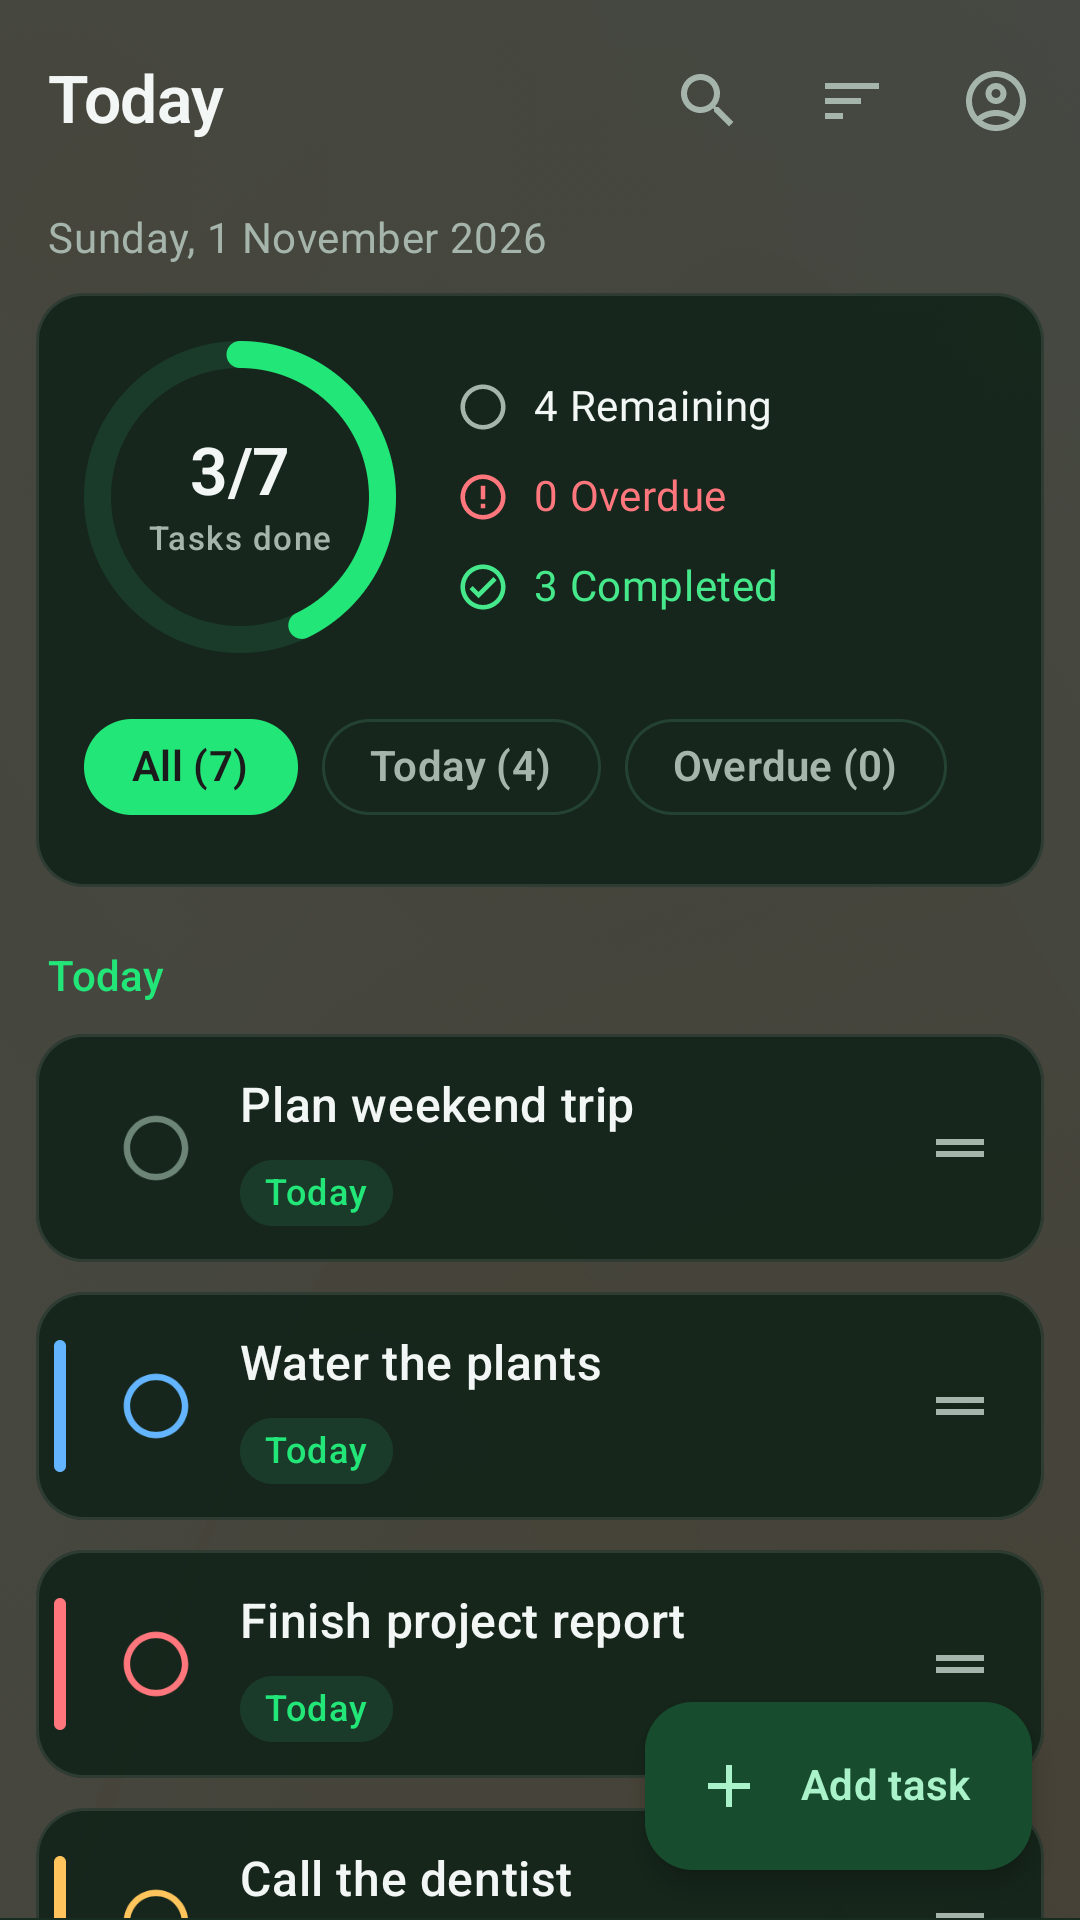
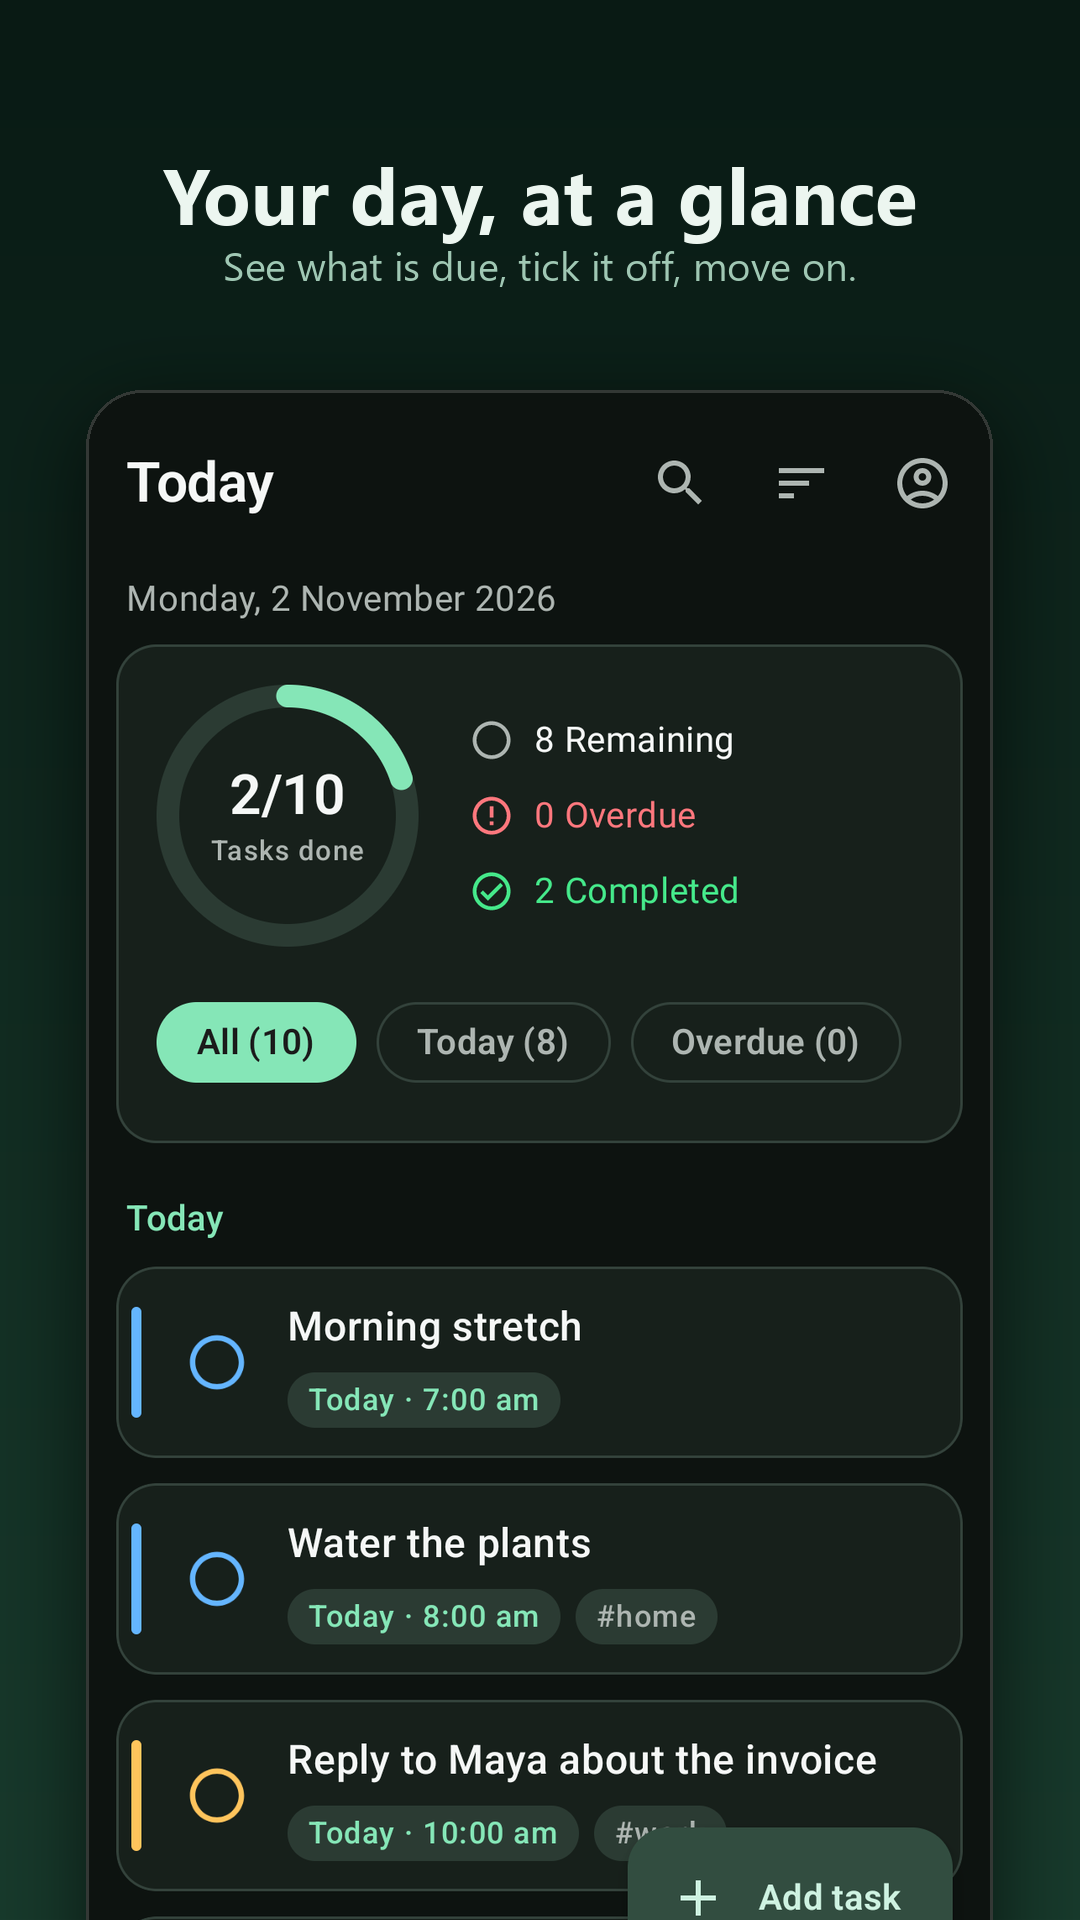
Store listing: captioned screenshot cards (Sage, plain background), listing text, tablet note

diff --git a/docs/release/assets/compose.py b/docs/release/assets/compose.py
@@ -1,0 +1,104 @@
+"""Compose Play Store screenshot cards from raw phone captures.
+
+usage: compose.py <out_dir> [W H]   (default 1080x1920 phone cards)
+Each card: gradient background in the Sage palette, headline + subline,
+the phone screen (status/nav bars cropped) with rounded corners and a
+shadow, bleeding off the bottom edge.
+"""
+import sys, os
+from PIL import Image, ImageDraw, ImageFilter, ImageFont
+
+W_IN = os.path.join(os.path.dirname(os.path.abspath(__file__)), "raw")
+OUT = sys.argv[1]
+CW, CH = (int(sys.argv[2]), int(sys.argv[3])) if len(sys.argv) > 3 else (1080, 1920)
+os.makedirs(OUT, exist_ok=True)
+
+FONT_B = "C:/Windows/Fonts/segoeuib.ttf"
+FONT_R = "C:/Windows/Fonts/segoeui.ttf"
+
+# name, dark?, headline, subline
+CARDS = [
+    ("01", "today_dark", True, "Your day, at a glance", "See what is due, tick it off, move on."),
+    ("02", "matrix_dark", True, "Know what matters first", "Urgent and important, sorted into four boxes."),
+    ("03", "focus_dark", True, "Focus on one task", "Timed rounds with breaks, started from the task."),
+    ("04", "reminder_light", False, "Reminders that really ring", "Alarm sound, vibration and a notification, on the minute."),
+    ("05", "today_light", False, "Light or dark, your pick", "One accent colour shapes the whole app."),
+    ("06", "editor_light", False, "Everything on one screen", "Date, time, reminder, repeat, list and tags."),
+    ("07", "upcoming_light", False, "Plan the week ahead", "Tomorrow and beyond, day by day."),
+    ("08", "appearance_dark", True, "Make it yours", "Ten calm accents and plain or scenic backgrounds."),
+]
+
+DARK_TOP, DARK_BOT = (9, 26, 20), (24, 58, 44)
+LIGHT_TOP, LIGHT_BOT = (226, 242, 233), (250, 253, 251)
+
+
+def gradient(w, h, top, bot):
+    g = Image.new("RGB", (1, h))
+    for y in range(h):
+        t = y / (h - 1)
+        g.putpixel((0, y), tuple(int(top[i] + (bot[i] - top[i]) * t) for i in range(3)))
+    return g.resize((w, h))
+
+
+def rounded(im, r):
+    mask = Image.new("L", im.size, 0)
+    ImageDraw.Draw(mask).rounded_rectangle((0, 0, im.width - 1, im.height - 1), r, fill=255)
+    out = im.convert("RGBA")
+    out.putalpha(mask)
+    return out
+
+
+def fit_text(draw, text, font_path, size, max_w):
+    while size > 20:
+        f = ImageFont.truetype(font_path, size)
+        if draw.textlength(text, font=f) <= max_w:
+            return f
+        size -= 2
+    return ImageFont.truetype(font_path, size)
+
+
+def card(num, name, dark, head, sub):
+    src = Image.open(f"{W_IN}/{name}.png").convert("RGB")
+    # crop the status bar (top 100 px) and the system nav bar (below 2270)
+    scr = src.crop((0, 100, src.width, 2270))
+    scale = CW / 1080
+    bg = gradient(CW, CH, *(DARK_TOP, DARK_BOT) if dark else (LIGHT_TOP, LIGHT_BOT))
+    d = ImageDraw.Draw(bg)
+    fg = (236, 246, 240) if dark else (18, 36, 28)
+    fg2 = (160, 200, 180) if dark else (70, 100, 86)
+    hf = fit_text(d, head, FONT_B, int(78 * scale), CW - int(120 * scale))
+    sf = fit_text(d, sub, FONT_R, int(40 * scale), CW - int(120 * scale))
+    y = int(140 * scale)
+    hw = d.textlength(head, font=hf)
+    d.text(((CW - hw) / 2, y), head, font=hf, fill=fg)
+    y += int(hf.size * 1.25)
+    sw = d.textlength(sub, font=sf)
+    d.text(((CW - sw) / 2, y), sub, font=sf, fill=fg2)
+    # phone screen
+    pw = int(CW * 0.84)
+    ph = int(scr.height * pw / scr.width)
+    scr = scr.resize((pw, ph), Image.LANCZOS)
+    r = int(56 * scale)
+    screen = rounded(scr, r)
+    px, py = (CW - pw) // 2, int(390 * scale)
+    # shadow
+    sh = Image.new("RGBA", (pw + 160, ph + 160), (0, 0, 0, 0))
+    ImageDraw.Draw(sh).rounded_rectangle((80, 80, 80 + pw, 80 + ph), r, fill=(0, 0, 0, 150 if dark else 70))
+    sh = sh.filter(ImageFilter.GaussianBlur(40))
+    bg = bg.convert("RGBA")
+    bg.alpha_composite(sh, (px - 80, py - 60))
+    # thin border so the screen edge reads on both backgrounds
+    border = Image.new("RGBA", screen.size, (0, 0, 0, 0))
+    ImageDraw.Draw(border).rounded_rectangle((0, 0, pw - 1, ph - 1), r, outline=(255, 255, 255, 40) if dark else (0, 0, 0, 30), width=3)
+    screen.alpha_composite(border)
+    bg.alpha_composite(screen, (px, py))
+    out = bg.convert("RGB")
+    out.save(f"{OUT}/{num}_{name}.png", optimize=True)
+    print(num, name, out.size)
+
+
+for c in CARDS:
+    if os.path.exists(f"{W_IN}/{c[1]}.png"):
+        card(*c)
+    else:
+        print("skip (no capture yet):", c[1])

diff --git a/docs/release/assets/store-listing.md b/docs/release/assets/store-listing.md
@@ -1,0 +1,62 @@
+# Store listing text (en-GB)
+
+Paste into Play Console → Grow users → Store presence → Main store listing.
+
+## App name (30)
+
+```
+Tick ToDo
+```
+
+## Short description (80)
+
+```
+A calm to-do list with alarm reminders, a focus timer and a priority matrix.
+```
+
+## Full description (4000)
+
+```
+Tick ToDo is a to-do list that keeps your day clear.
+
+Write a task, give it a date, and it appears under Today when it matters. Tick it off and move on. Nothing is hidden behind menus and nothing gets in your way.
+
+WHAT YOU GET
+
+Today and Upcoming
+See what is due now and what is coming next, with a progress ring that fills as you tick tasks off.
+
+Reminders that really ring
+A reminder rings like an alarm at the exact minute you chose, with sound, vibration and a notification. Snooze it or mark it done without opening the app.
+
+Priority matrix
+Sort tasks by urgent and important in a four-box view, so you always know what to do first.
+
+Repeat, subtasks, lists and tags
+Daily, weekday, weekly, monthly or yearly repeats. Break a task into steps. Group tasks into lists and tag them any way you like.
+
+Focus timer
+Start a focus session on any task, take breaks, and add minutes when you are in the flow.
+
+Works offline, syncs everywhere
+Add and edit tasks without a connection. Sign in with Google and your tasks follow you to every Android device.
+
+Home-screen widgets
+Today, Upcoming, any list, quick add and the focus timer, right on your home screen.
+
+Your colours
+Pick one accent colour and the whole app follows it, in light and dark mode.
+
+Free, with no ads and no in-app purchases.
+
+PRIVACY
+Your tasks are stored in your own Google-linked account and are never sold or shared. You can delete your account and all of its data from inside the app at any time. Full policy: https://ferrabyte512.github.io/ticktodo/legal/privacy-policy.html
+```
+
+## Screenshot order
+
+Phone, upload all eight in this order: `01` Today (dark), `02` Matrix (dark), `03` Focus (dark), `04` Reminder notification (light), `05` Today (light), `06` Task editor (light), `07` Upcoming (light), `08` Appearance (dark).
+
+Look used for the captures: accent **Sage**, background **Plain**, no wallpaper, no keyboard. Dark cards sit on a deep green gradient, light cards on a pale mint one; headline and one-line subline above a rounded phone screen that bleeds off the bottom. Rebuild with `compose.py` from the raw captures in `raw/` if a screen changes.
+
+Tablet slots (7-inch and 10-inch): Play accepts these same 1080×1920 cards; both sides are within the allowed range. Use them unless real tablet captures are made.

diff --git a/docs/release/play-console-answers.md b/docs/release/play-console-answers.md
@@ -22,7 +22,7 @@ or feature changes.
 |---|---|
 | App icon 512×512 | `ic_launcher_512.png` (rendered from the adaptive icon by `LauncherIconExportTest`) |
 | Feature graphic 1024×500 | `feature_graphic_1024x500.png` |
-| Phone screenshots (1080×1920) | `01_today_dark.png` … `10_add_task_light.png` (use 6–8; put `01`, `07`, `03`, `04`, `05`, `02` first) |
+| Phone screenshots (1080×1920) | `01_today_dark.png` … `08_appearance_dark.png`, upload all eight in order (captioned cards; raw captures in `raw/`) |
 | Listing text | `store-listing.md` |
 
 ## App content → declarations
